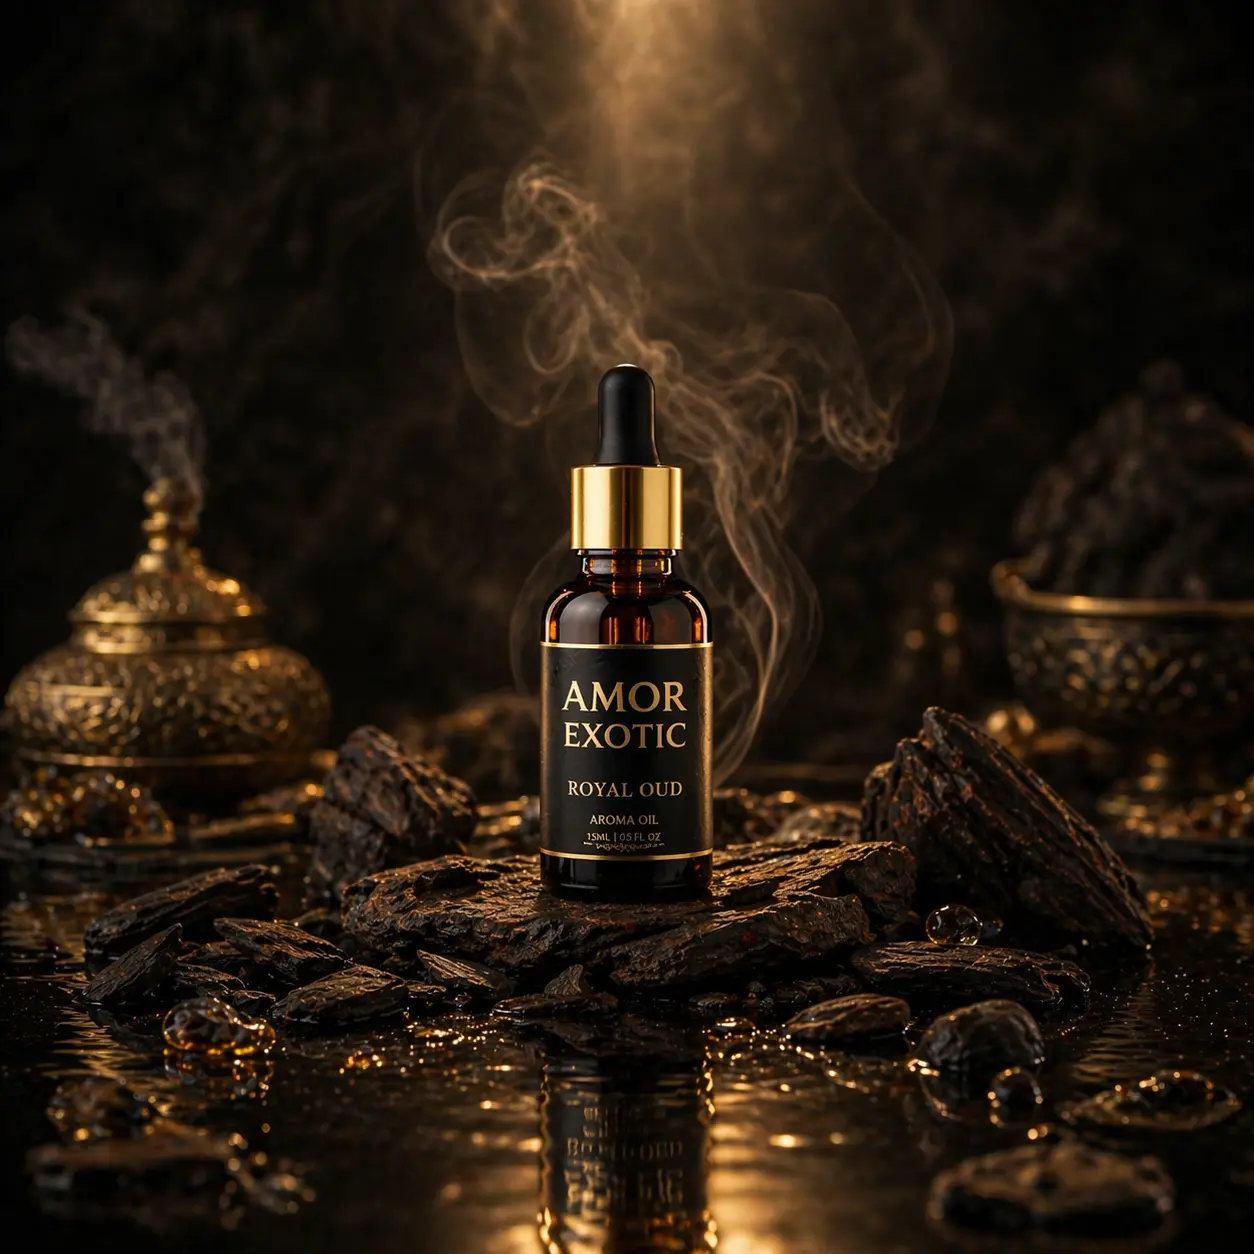
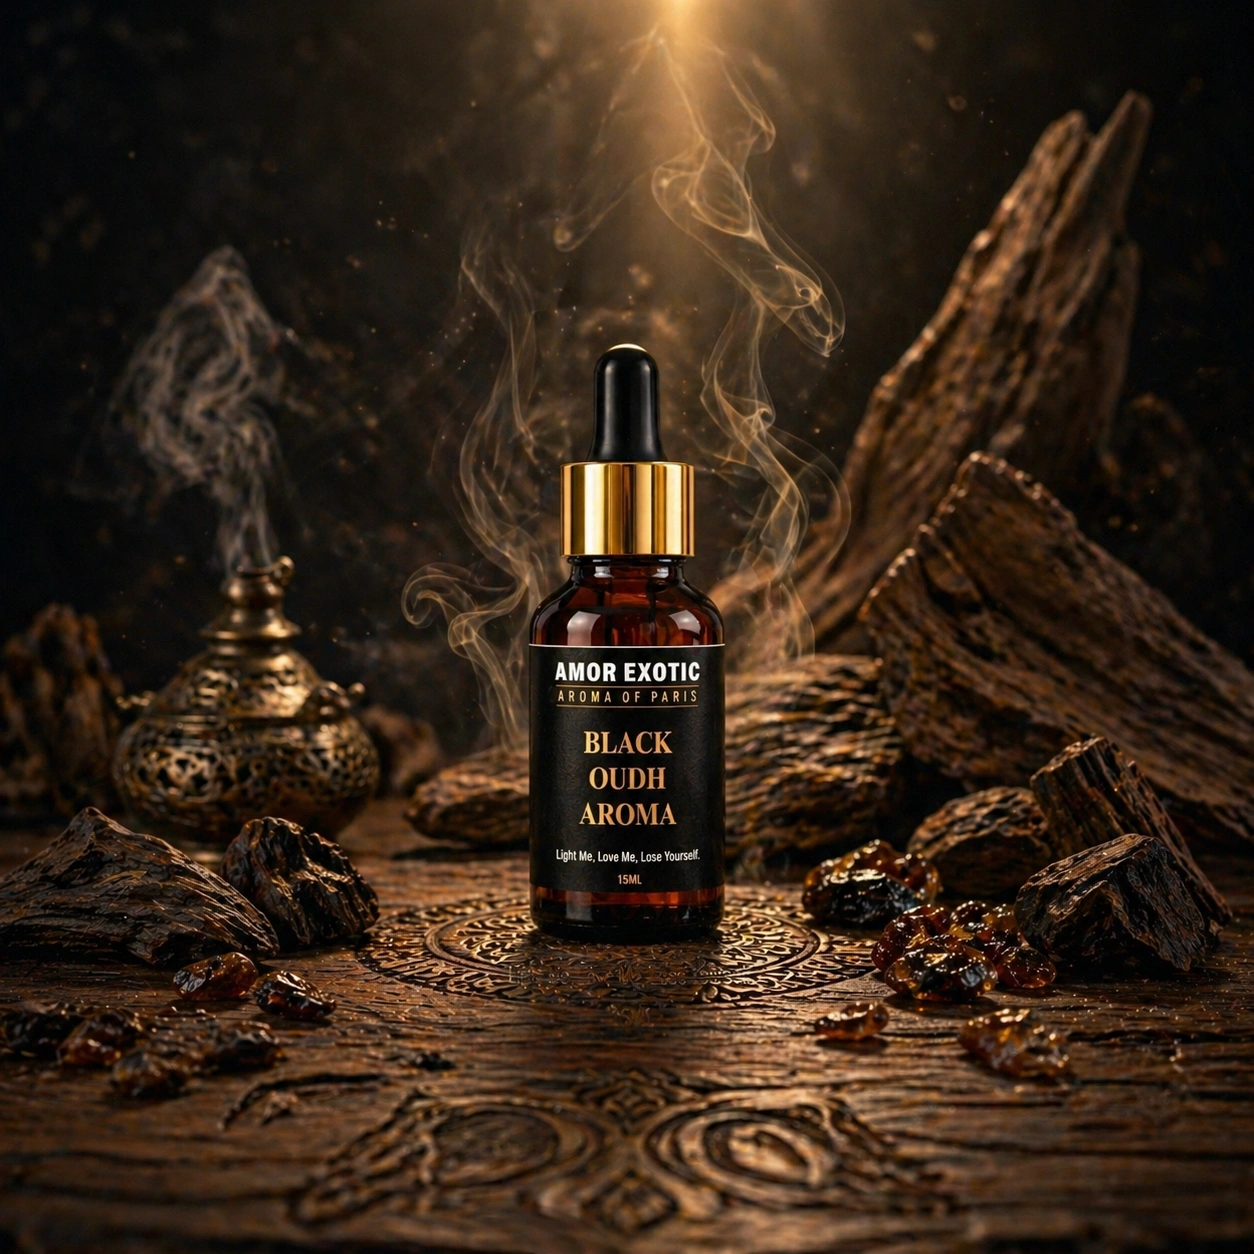
fix bugs and cheak out

diff --git a/src/pages/ContactUs.jsx b/src/pages/ContactUs.jsx
@@ -43,9 +43,38 @@ export default function ContactUs() {
           </div>
 
           <div className="relative z-10 text-center px-5 max-w-4xl mx-auto reveal-up" style={{ animationDelay: '0.4s' }}>
-            <p className="text-white/80 text-sm sm:text-lg tracking-widest max-w-2xl mx-auto font-medium leading-relaxed drop-shadow-md">
+            <p className="text-white/80 text-sm sm:text-lg tracking-widest max-w-2xl mx-auto font-medium leading-relaxed drop-shadow-md mb-10">
               Bespoke consultations, bulk inquiries, and luxury partnerships. Let us elevate your atmosphere to the pinnacle of olfactory art.
             </p>
+
+            {/* Hero CTA Buttons */}
+            <div className="flex flex-col sm:flex-row items-center justify-center gap-4">
+              {/* WhatsApp Button */}
+              <a
+                href={createWhatsAppLink('Hello, I would like to connect with Amor Exotic regarding a luxury inquiry.')}
+                target="_blank" rel="noopener noreferrer"
+                className="group flex items-center gap-3 px-8 py-4 rounded-full border border-[#c8973a] bg-[#c8973a] hover:bg-transparent text-white text-[11px] tracking-[0.3em] uppercase font-bold transition-all duration-500 hover:shadow-[0_0_40px_rgba(200,151,58,0.5)] hover:scale-105"
+                style={{ boxShadow: '0 8px 30px rgba(200,151,58,0.25)' }}
+              >
+                {/* WhatsApp icon */}
+                <svg className="w-5 h-5 flex-shrink-0" fill="currentColor" viewBox="0 0 24 24">
+                  <path d="M17.472 14.382c-.297-.149-1.758-.867-2.03-.967-.273-.099-.471-.148-.67.15-.197.297-.767.966-.94 1.164-.173.199-.347.223-.644.075-.297-.15-1.255-.463-2.39-1.475-.883-.788-1.48-1.761-1.653-2.059-.173-.297-.018-.458.13-.606.134-.133.298-.347.446-.52.149-.174.198-.298.298-.497.099-.198.05-.371-.025-.52-.075-.149-.669-1.612-.916-2.207-.242-.579-.487-.5-.669-.51-.173-.008-.371-.01-.57-.01-.198 0-.52.074-.792.372-.272.297-1.04 1.016-1.04 2.479 0 1.462 1.065 2.875 1.213 3.074.149.198 2.096 3.2 5.077 4.487.709.306 1.262.489 1.694.625.712.227 1.36.195 1.871.118.571-.085 1.758-.719 2.006-1.413.248-.694.248-1.289.173-1.413-.074-.124-.272-.198-.57-.347m-5.421 7.403h-.004a9.87 9.87 0 01-5.031-1.378l-.361-.214-3.741.982.998-3.648-.235-.374a9.86 9.86 0 01-1.51-5.26c.001-5.45 4.436-9.884 9.888-9.884 2.64 0 5.122 1.03 6.988 2.898a9.825 9.825 0 012.893 6.994c-.003 5.45-4.437 9.884-9.885 9.884m8.413-18.297A11.815 11.815 0 0012.05 0C5.495 0 .16 5.335.157 11.892c0 2.096.547 4.142 1.588 5.945L.057 24l6.305-1.654a11.882 11.882 0 005.683 1.448h.005c6.554 0 11.89-5.335 11.893-11.893a11.821 11.821 0 00-3.48-8.413z"/>
+                </svg>
+                <span>Chat on WhatsApp</span>
+              </a>
+
+              {/* Scroll Down hint */}
+              <a
+                href="#contact-details"
+                onClick={(e) => { e.preventDefault(); document.getElementById('contact-details')?.scrollIntoView({ behavior: 'smooth' }); }}
+                className="group flex items-center gap-2 px-8 py-4 rounded-full border border-white/20 bg-white/5 hover:border-[#c8973a]/60 hover:bg-[#c8973a]/10 text-white/70 hover:text-white text-[11px] tracking-[0.3em] uppercase font-bold transition-all duration-500"
+              >
+                <span>Explore Locations</span>
+                <svg className="w-4 h-4 group-hover:translate-y-1 transition-transform duration-300" fill="none" stroke="currentColor" viewBox="0 0 24 24">
+                  <path strokeLinecap="round" strokeLinejoin="round" strokeWidth="2" d="M19 9l-7 7-7-7" />
+                </svg>
+              </a>
+            </div>
           </div>
         </section>
 
@@ -53,7 +82,7 @@ export default function ContactUs() {
         <Clients />
 
         {/* GLOBAL REACH - MOVED UP BEFORE PREMIUM PARTNERSHIP */}
-        <section className="relative py-24 px-5 sm:px-8 overflow-hidden bg-[#fbf9f4]">
+        <section id="contact-details" className="relative py-24 px-5 sm:px-8 overflow-hidden bg-[#fbf9f4]">
           <div className="absolute inset-0 opacity-[0.05]" style={{ backgroundImage: 'radial-gradient(circle at 20% 20%, rgba(200,151,58,0.8) 0px, transparent 40%), radial-gradient(circle at 85% 80%, rgba(200,151,58,0.6) 0px, transparent 40%)' }}></div>
           <div className="max-w-screen-xl mx-auto relative z-10">
             <div className="mb-20 text-center reveal-up">

diff --git a/src/components/Footer.jsx b/src/components/Footer.jsx
@@ -1,6 +1,19 @@
-import { Link } from 'react-router-dom';
+import { Link, useLocation } from 'react-router-dom';
 
 export default function Footer() {
+  const { pathname } = useLocation();
+
+  const handleScroll = (e, id) => {
+    if (pathname === '/') {
+      e.preventDefault();
+      const element = document.getElementById(id);
+      if (element) {
+        element.scrollIntoView({ behavior: 'smooth' });
+        window.history.pushState(null, '', '/#' + id);
+      }
+    }
+  };
+
   return (
     <footer id="footer-address" className="relative pt-16 pb-6 px-8 overflow-hidden"
       style={{ background: 'rgba(250, 247, 242, 0.95)', backdropFilter: 'blur(24px)', WebkitBackdropFilter: 'blur(24px)', borderTop: '1px solid rgba(178, 168, 148, 0.25)' }}>
@@ -49,7 +62,7 @@ export default function Footer() {
               { label: '🌊 Ocean Breeze Aroma', to: '/product/ocean-breeze-aroma' },
               { label: '🍊 Fruity Exotica Aroma', to: '/product/fruity-exotica' },
               { label: '💧 Aqua Aroma', to: '/product/aqua-aroma' },
-              { label: '🖤 Black Oudh Aroma', to: '/product/black-oudh-aroma' },
+              { label: '🖤 Black Oudh Aroma', to: '/product/royal-oud-aroma' },
             ].map((item, i) => (
               <Link key={i} to={item.to}
                 className="block text-[13px] font-light transition-all duration-300 hover:text-[#c8973a] hover:translate-x-2"
@@ -60,7 +73,7 @@ export default function Footer() {
           {/* Company Links */}
           <div className="md:col-span-2 space-y-5">
             <h4 className="text-[9.5px] tracking-[0.4em] uppercase font-semibold mb-6" style={{ color: 'var(--text)' }}>Company</h4>
-            <Link to="/#about" className="block text-[13px] font-light transition-all duration-300 hover:text-[#c8973a] hover:translate-x-2" style={{ color: 'var(--text-70)' }}>Our Story</Link>
+            <Link to="/#about" onClick={(e) => handleScroll(e, 'about')} className="block text-[13px] font-light transition-all duration-300 hover:text-[#c8973a] hover:translate-x-2" style={{ color: 'var(--text-70)' }}>Our Story</Link>
             <Link to="/ingredients" className="block text-[13px] font-light transition-all duration-300 hover:text-[#c8973a] hover:translate-x-2" style={{ color: 'var(--text-70)' }}>Ingredients</Link>
             <Link to="/contact" className="block text-[13px] font-light transition-all duration-300 hover:text-[#c8973a] hover:translate-x-2" style={{ color: 'var(--text-70)' }}>Contact Us</Link>
             <Link to="/privacy-policy" className="block text-[13px] font-light transition-all duration-300 hover:text-[#c8973a] hover:translate-x-2" style={{ color: 'var(--text-70)' }}>Privacy Policy</Link>

diff --git a/src/data/products.js b/src/data/products.js
@@ -89,17 +89,17 @@ export const products = [
     id: 'royal-oud-aroma',
     slug: 'royal-oud-aroma',
     img: 'images/fixxxxxinnnnnggggggg.webp',
-    alt: 'Royal Oud Aroma',
+    alt: 'BLACK OUDH AROMA',
     glow: 'rgba(200,151,58,0.28)',
     category: 'oriental',
     badge: 'Limited Edition',
     badgeClass: 'exotic-badge',
     cat: 'Oriental · 15ML',
-    name: 'Royal Oud Aroma',
+    name: 'BLACK OUDH AROMA',
     tagline: '"Light Me, Love Me, Lose Yourself."',
     description: 'Distilled from the rarest Agarwood of the Arabian Peninsula. A deep, smouldering oriental fragrance that commands attention, ignites desire, and lingers long after you\'ve left the room.',
     notes: ['Agarwood', 'Smoky Resin', 'Amber'],
-    waText: 'Hello%20I%20am%20interested%20in%20the%20Royal%20Oud%20Aroma%2015ML',
+    waText: 'Hello%20I%20am%20interested%20in%20the%20Black%20OUDH%20Aroma%2015ML',
     delay: '0.35s',
   }
 ];

diff --git a/src/components/Navbar.jsx b/src/components/Navbar.jsx
@@ -24,7 +24,7 @@ export default function Navbar() {
         </Link>
         <div className="hidden lg:flex items-center gap-10">
           <Link to="/#about" onClick={(e) => handleScroll(e, 'about')} className="nav-link magnetic">Our Story</Link>
-          <Link to="/#products" onClick={(e) => handleScroll(e, 'products')} className="nav-link magnetic">Products</Link>
+          <Link to="/#collection" onClick={(e) => handleScroll(e, 'collection')} className="nav-link magnetic">Products</Link>
           <Link to="/ingredients" className="nav-link magnetic">Ingredients</Link>
           <Link to="/contact" className="nav-link magnetic">Contact</Link>
           <div className="relative group/bulk">
